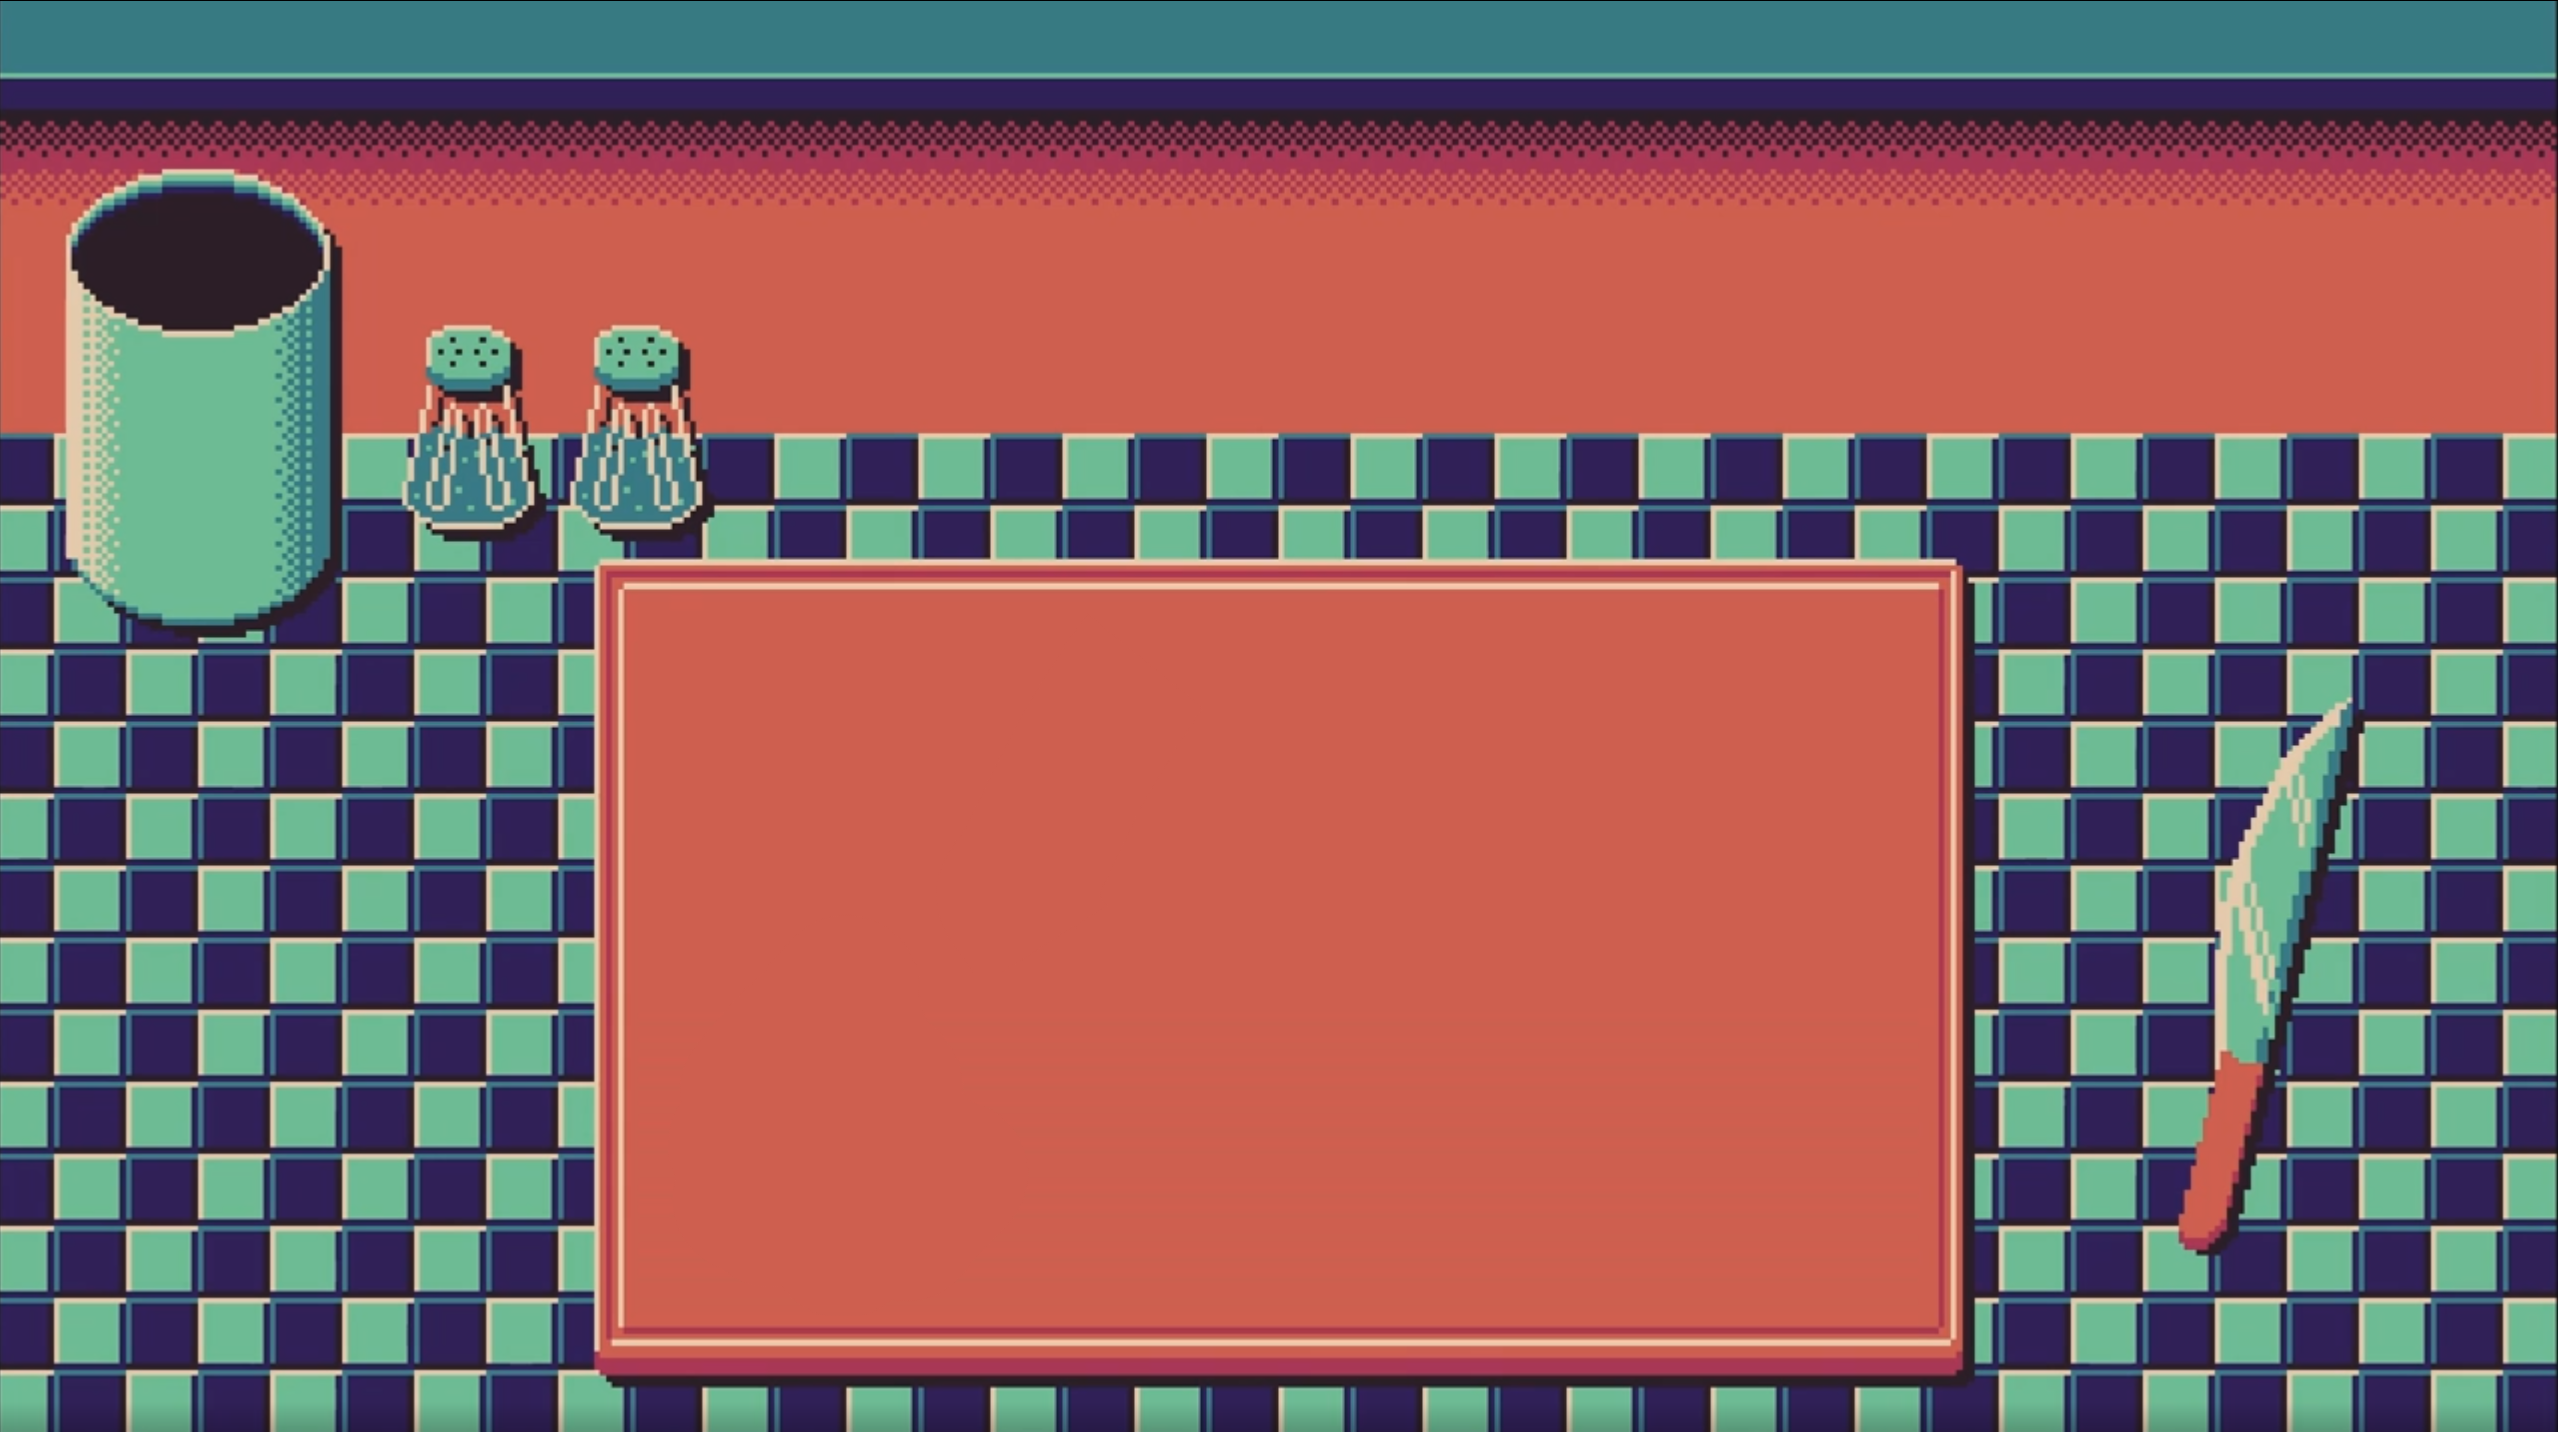
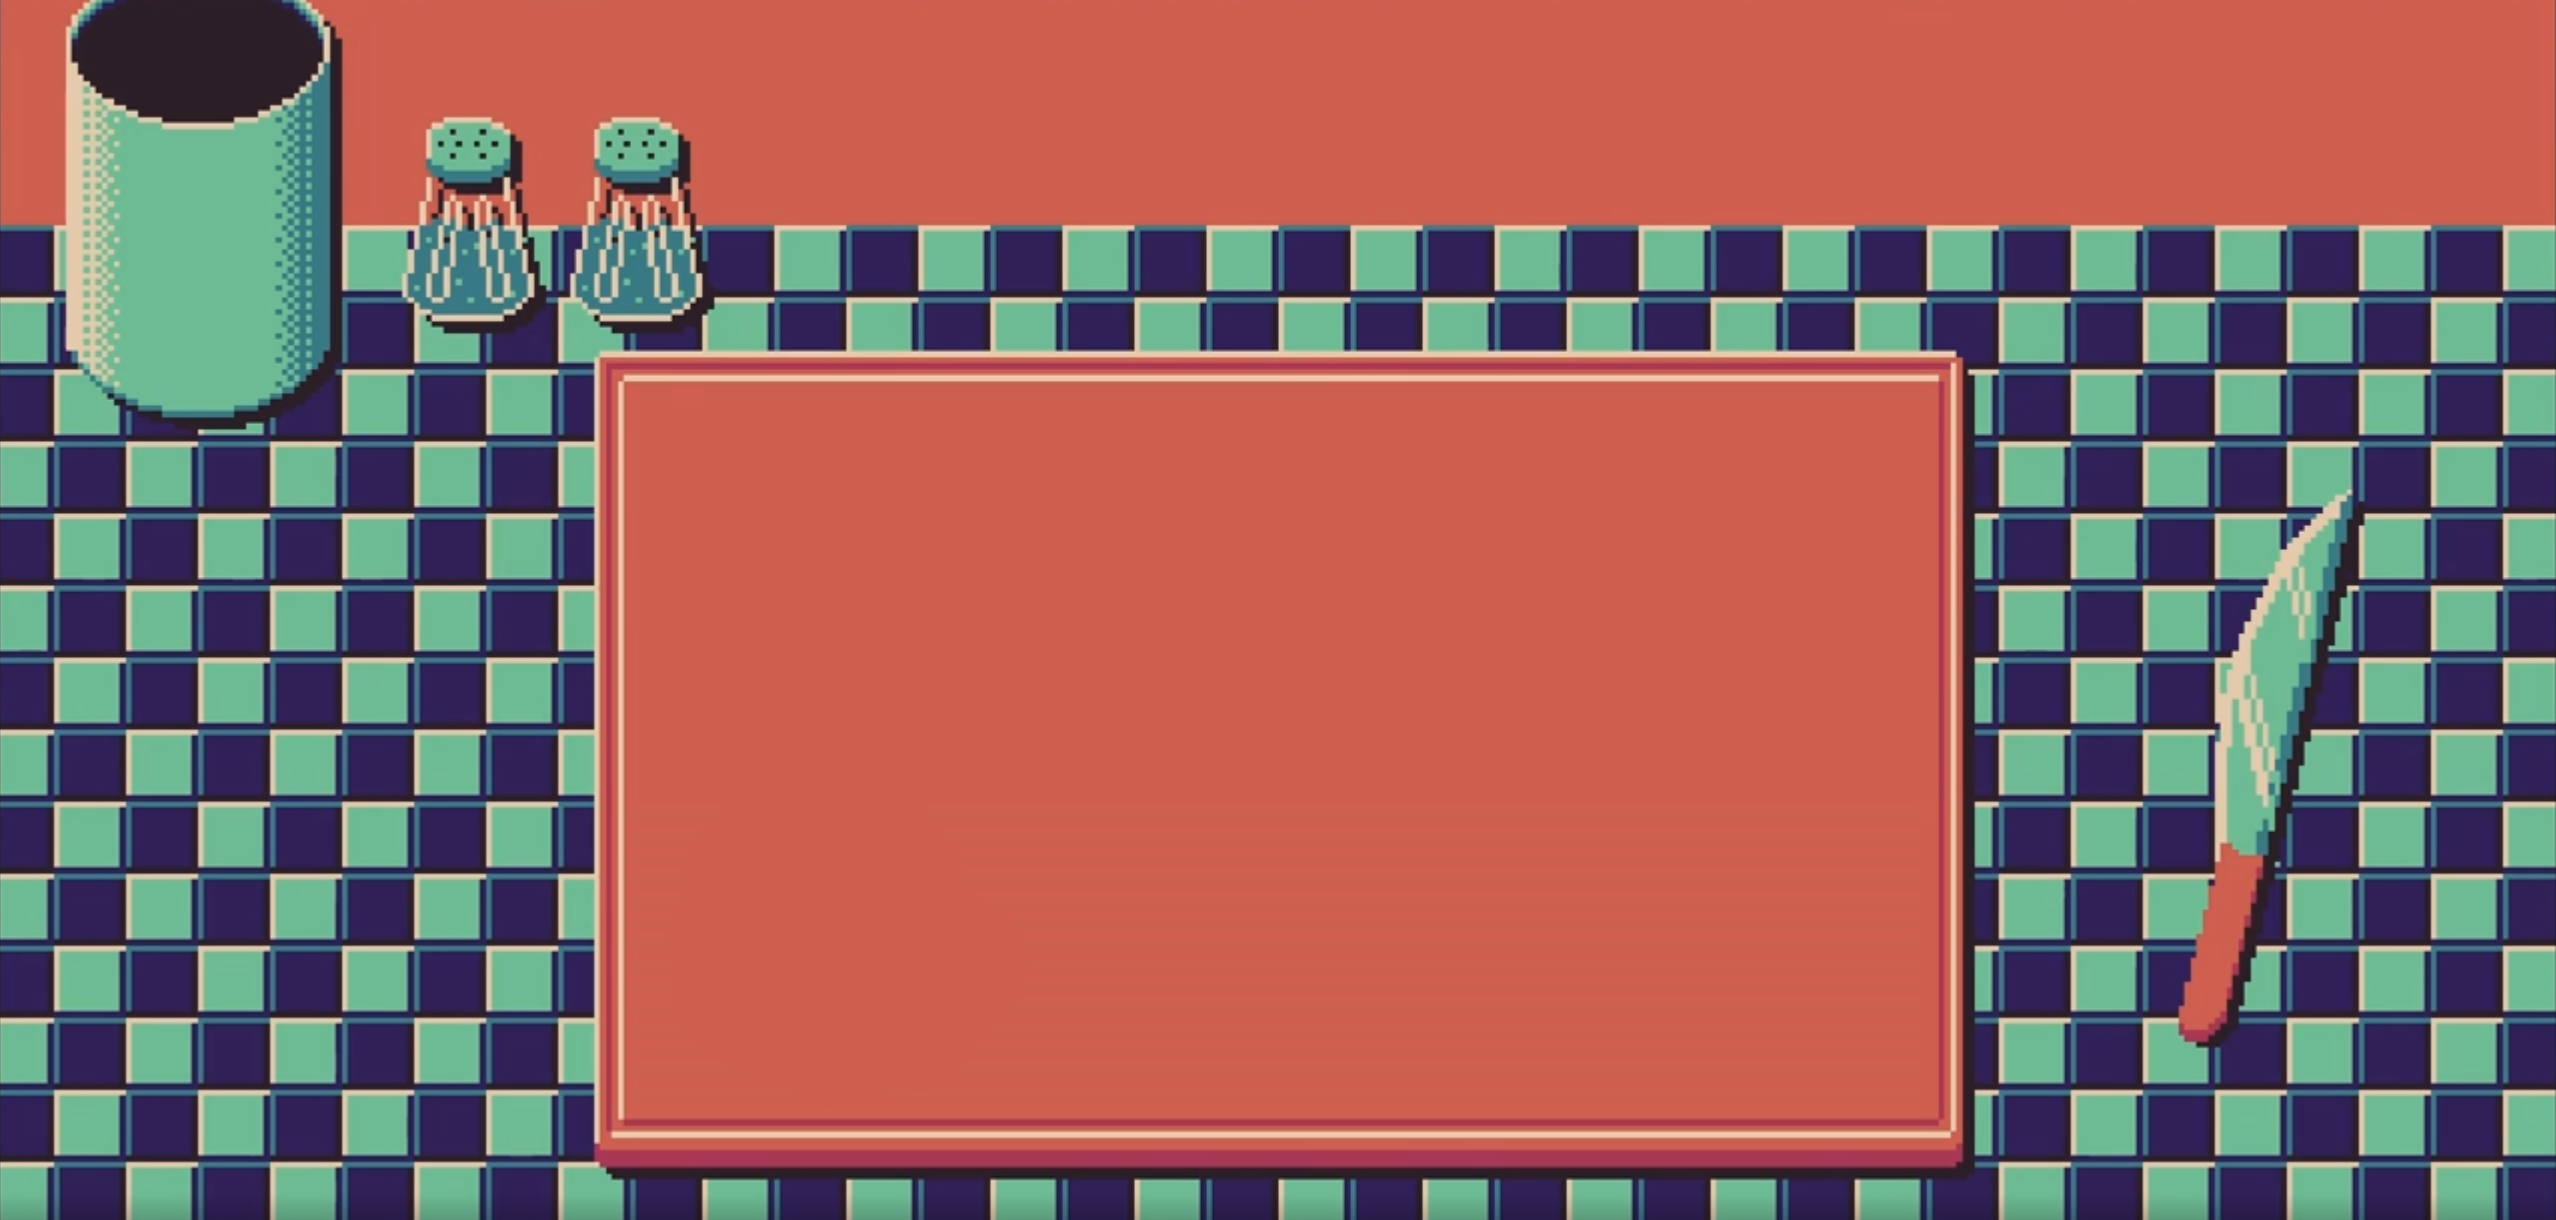
edited design

diff --git a/css/styles.css b/css/styles.css
@@ -21,10 +21,21 @@ color: #525353;
   top: 145px;
   left: 580px;
 
-  background-image: url("../img/cactus.png");
   background-size: 20px 40px;
 
   animation: block 2.3s infinite linear; 
+}
+
+.popcorn{
+  background-image: url(../img/popcorn.png);
+}
+
+.note{
+  background-image: url(../img/note.png);
+}
+
+.fork{
+  background-image: url(../img/fork.png);
 }
 
 .container #undo{
@@ -78,6 +89,7 @@ color: #525353;
   top: 50%;
   left: 50%;
   transform: translate(-50%, -50%);
+  background-image: url(../img/earth2.png);
 }
 
 .info{
@@ -119,19 +131,13 @@ input#retry-button {
   top: 230%;
   left: 29%;
   transform: translate(-50%, -50%);
-  background: url("../img/retry-button.png") no-repeat;
+  background: url("../img/re.png") no-repeat;
   background-color: transparent;
   border: none;
   width: 37px;
   cursor: pointer;
   height: 34px;
 }
-
-.showInfoButton{
-  
-}
-
-
 
 @font-face {
     font-family: "DINO";
@@ -213,11 +219,11 @@ input#retry-button {
 
 .dinnerbackground {
   width: 100%;
-  height: auto;
+  height: 100vh;
   margin: 0 auto;
   background: url("../img/dinner_table.png") no-repeat;
   background-size: cover;
-  background-position: -85px -101px;
+  background-position: center center;
   margin-bottom: 100px;
 
   overflow: hidden;

diff --git a/html/game_dinner.html b/html/game_dinner.html
@@ -9,9 +9,9 @@
 
   <body class="dinnerbackground">
     <div style="border: 1px solid paleturquoise;" class="game">
-      <div id="dino"></div>
-      <div id="cactus"></div>
-      <div style="color: paleturquoise;" id="score">0</div>
+      <div id="dino" style="filter: invert(93%) sepia(17%) saturate(557%) hue-rotate(121deg) brightness(98%) contrast(90%);"></div>
+      <div id="cactus" class="fork "></div>
+      <div style="color: #afeeee;" id="score">0</div>
       <div id="game-clear-text" class="hide">
         <button class="showInfoButton" id="showInfoDinner">Show me NOW!!!</button>
         <div style="color: paleturquoise;"><span id="info"></span><span  id="name"></span></div>
@@ -19,7 +19,7 @@
     </div>
     <div class="container">
       <a href="../index.html"><button id="undo">◀</button></a>
-      <h1 style="color: paleturquoise;">GAME_DINNER</h1>
+      <h1 style="color: paleturquoise;">DINNER_SELECTED</h1>
       <div style="color: paleturquoise;" id="game-over-text">GAME OVER <input id = "retry-button" type = "button" class = "gameOverButton"> <button id="menu-button" class = "gameOverButton">Menu</button></div>
     </div>
 

diff --git a/html/game_music.html b/html/game_music.html
@@ -9,8 +9,8 @@
 
   <body class="musicbackground">
     <div style = "border: 1px solid white;" class="game">
-      <div id="dino"></div>
-      <div id="cactus"></div>
+      <div id="dino" style="filter: invert(100%) sepia(1%) saturate(7498%) hue-rotate(78deg) brightness(117%) contrast(100%);"></div>
+      <div id="cactus" class="note"></div>
       <div style = "color: white;" id="score">0</div>
       <div id="game-clear-text" class="hide">
         <button class="showInfoButton" id="showInfoMusic">Show me NOW!!!</button>
@@ -20,7 +20,7 @@
     </div>
     <div class="container">
       <a href="../index.html"><button id="undo">◀</button></a>
-      <h1 style ="color: white;">GAME_MUSIC</h1>
+      <h1 style ="color: white;">MUSIC_SELECTED</h1>
       <div style = "color: white;" id="game-over-text">GAME OVER <input id = "retry-button" type = "button" class = "gameOverButton"> <button id="menu-button" class = "gameOverButton">Menu</button></div>
     </div> 
 

diff --git a/html/game_movie.html b/html/game_movie.html
@@ -10,7 +10,7 @@
   <body class="moviebackground">
     <div class="game">
       <div id="dino"></div>
-      <div id="cactus"></div>
+      <div id="cactus" class="popcorn"></div>
       <div id="score">0</div>
       <div id="game-clear-text" class="hide">
         <button class="showInfoButton" id="showInfoMovie">Show me NOW!!!</button>
@@ -20,7 +20,7 @@
     </div>
     <div class="container">
       <a href="../index.html"><button id="undo">◀</button></a>
-      <h1 style ="color: white;">GAME_MOVIE</h1>
+      <h1 style ="color: white;">MOVIE_SELECTED</h1>
       <div id="game-over-text">GAME OVER <input id = "retry-button" type = "button" class = "gameOverButton"> <button id="menu-button" class = "gameOverButton">Menu</button></div>
     </div>
     

diff --git a/scripts.js b/scripts.js
@@ -37,7 +37,7 @@ function jump() {
         scoreValue++;
         score.textContent = scoreValue;
 
-        if (scoreValue >=1) {
+        if (scoreValue >=3) {
           score.textContent = "";
           document.getElementById("game-clear-text").classList.remove("hide");
           cactus.style.display = "none"; // cactus 숨기기
